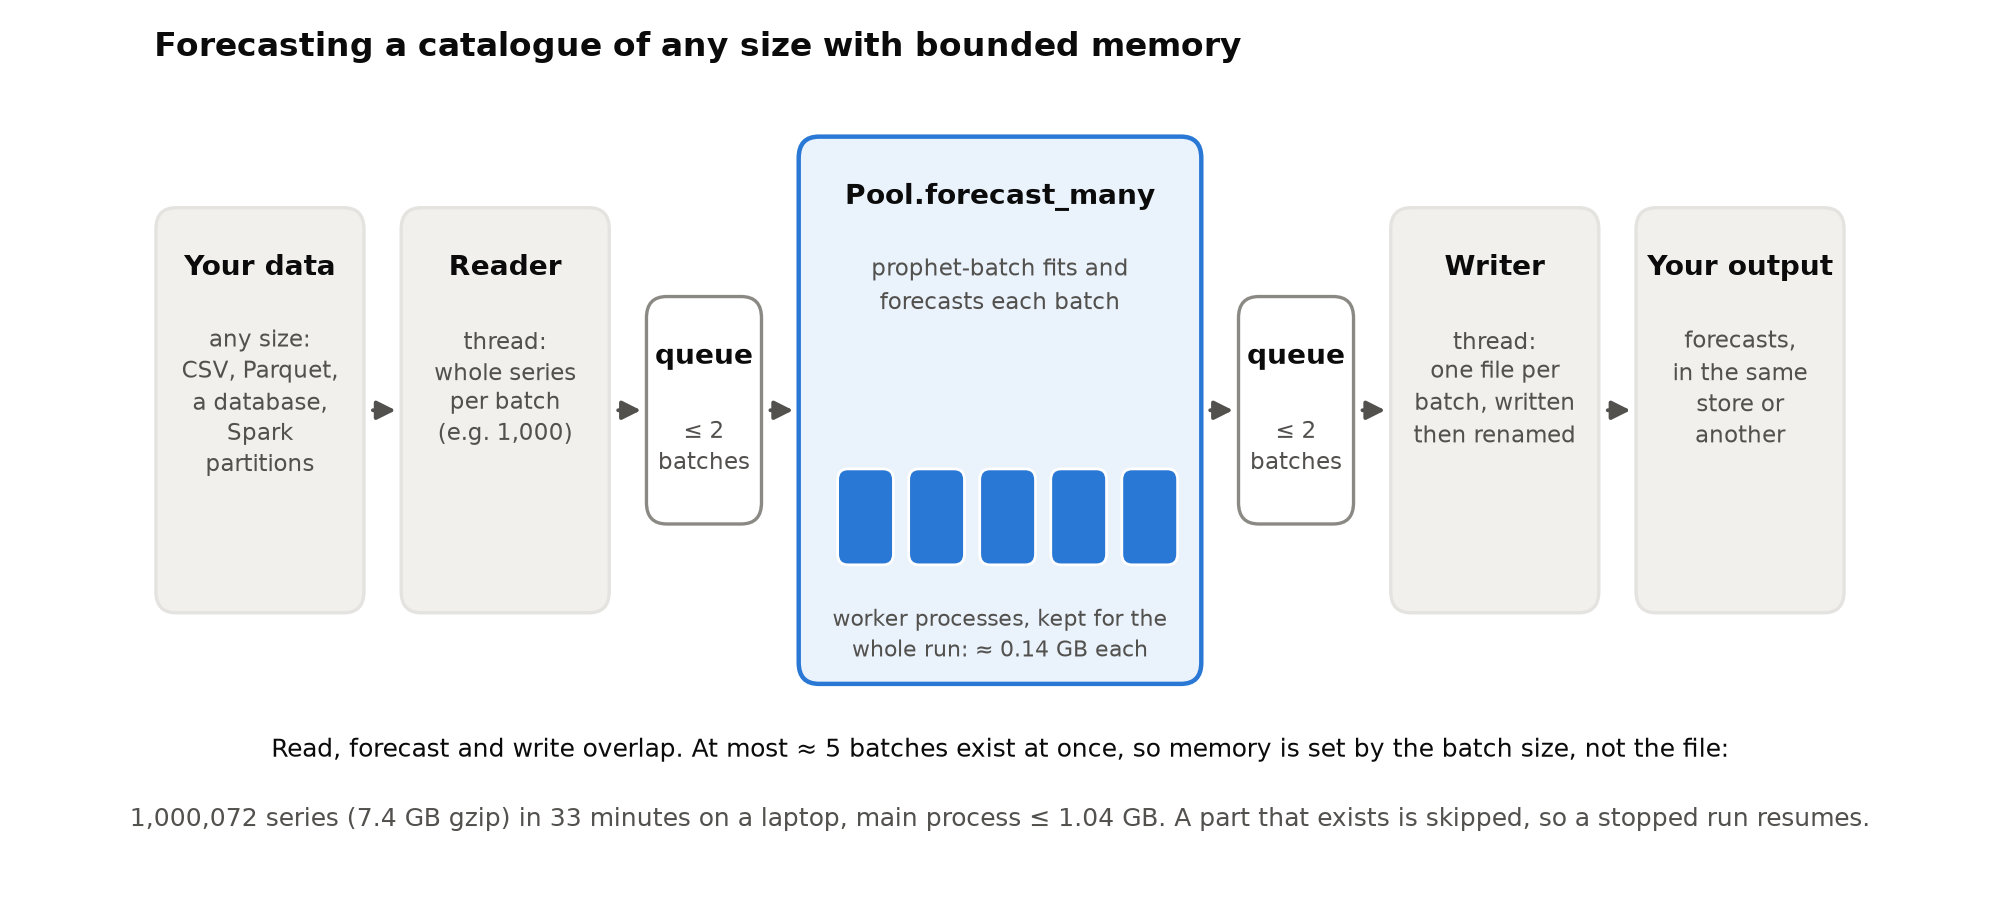
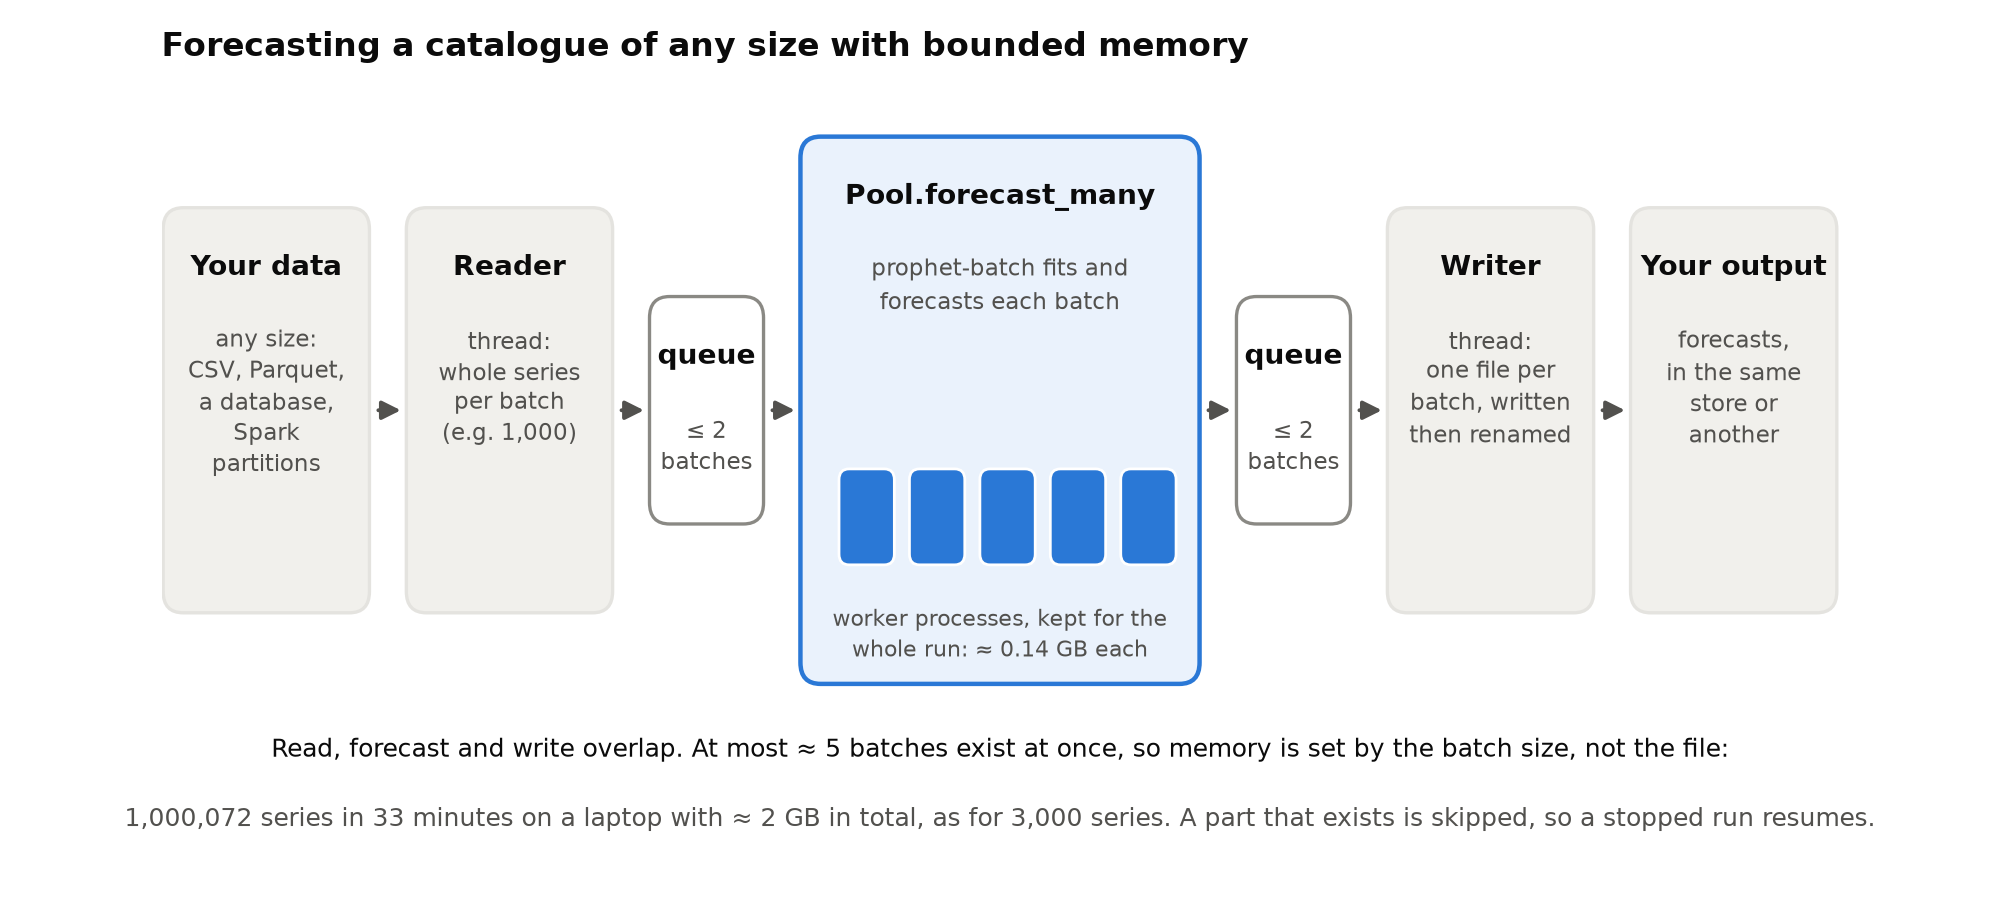
Streaming diagram: total memory instead of the file size

diff --git a/examples_core/figures.py b/examples_core/figures.py
@@ -342,7 +342,7 @@ def pattern(out: Path) -> None:
         arrow(x0, x1)
     ax.text(50, 7.5, 'Read, forecast and write overlap. At most ≈ 5 batches exist at once, so memory is set by the batch '
             'size, not the file:', ha='center', fontsize=9, color=INK)
-    ax.text(50, 3.6, '1,000,072 series (7.4 GB gzip) in 33 minutes on a laptop, main process ≤ 1.04 GB. '
+    ax.text(50, 3.6, '1,000,072 series in 33 minutes on a laptop with ≈ 2 GB in total, as for 3,000 series. '
             'A part that exists is skipped, so a stopped run resumes.', ha='center', fontsize=9, color=INK_2)
     ax.set_title('Forecasting a catalogue of any size with bounded memory', loc='left', fontsize=12, fontweight='bold',
                  color=INK, pad=6)
